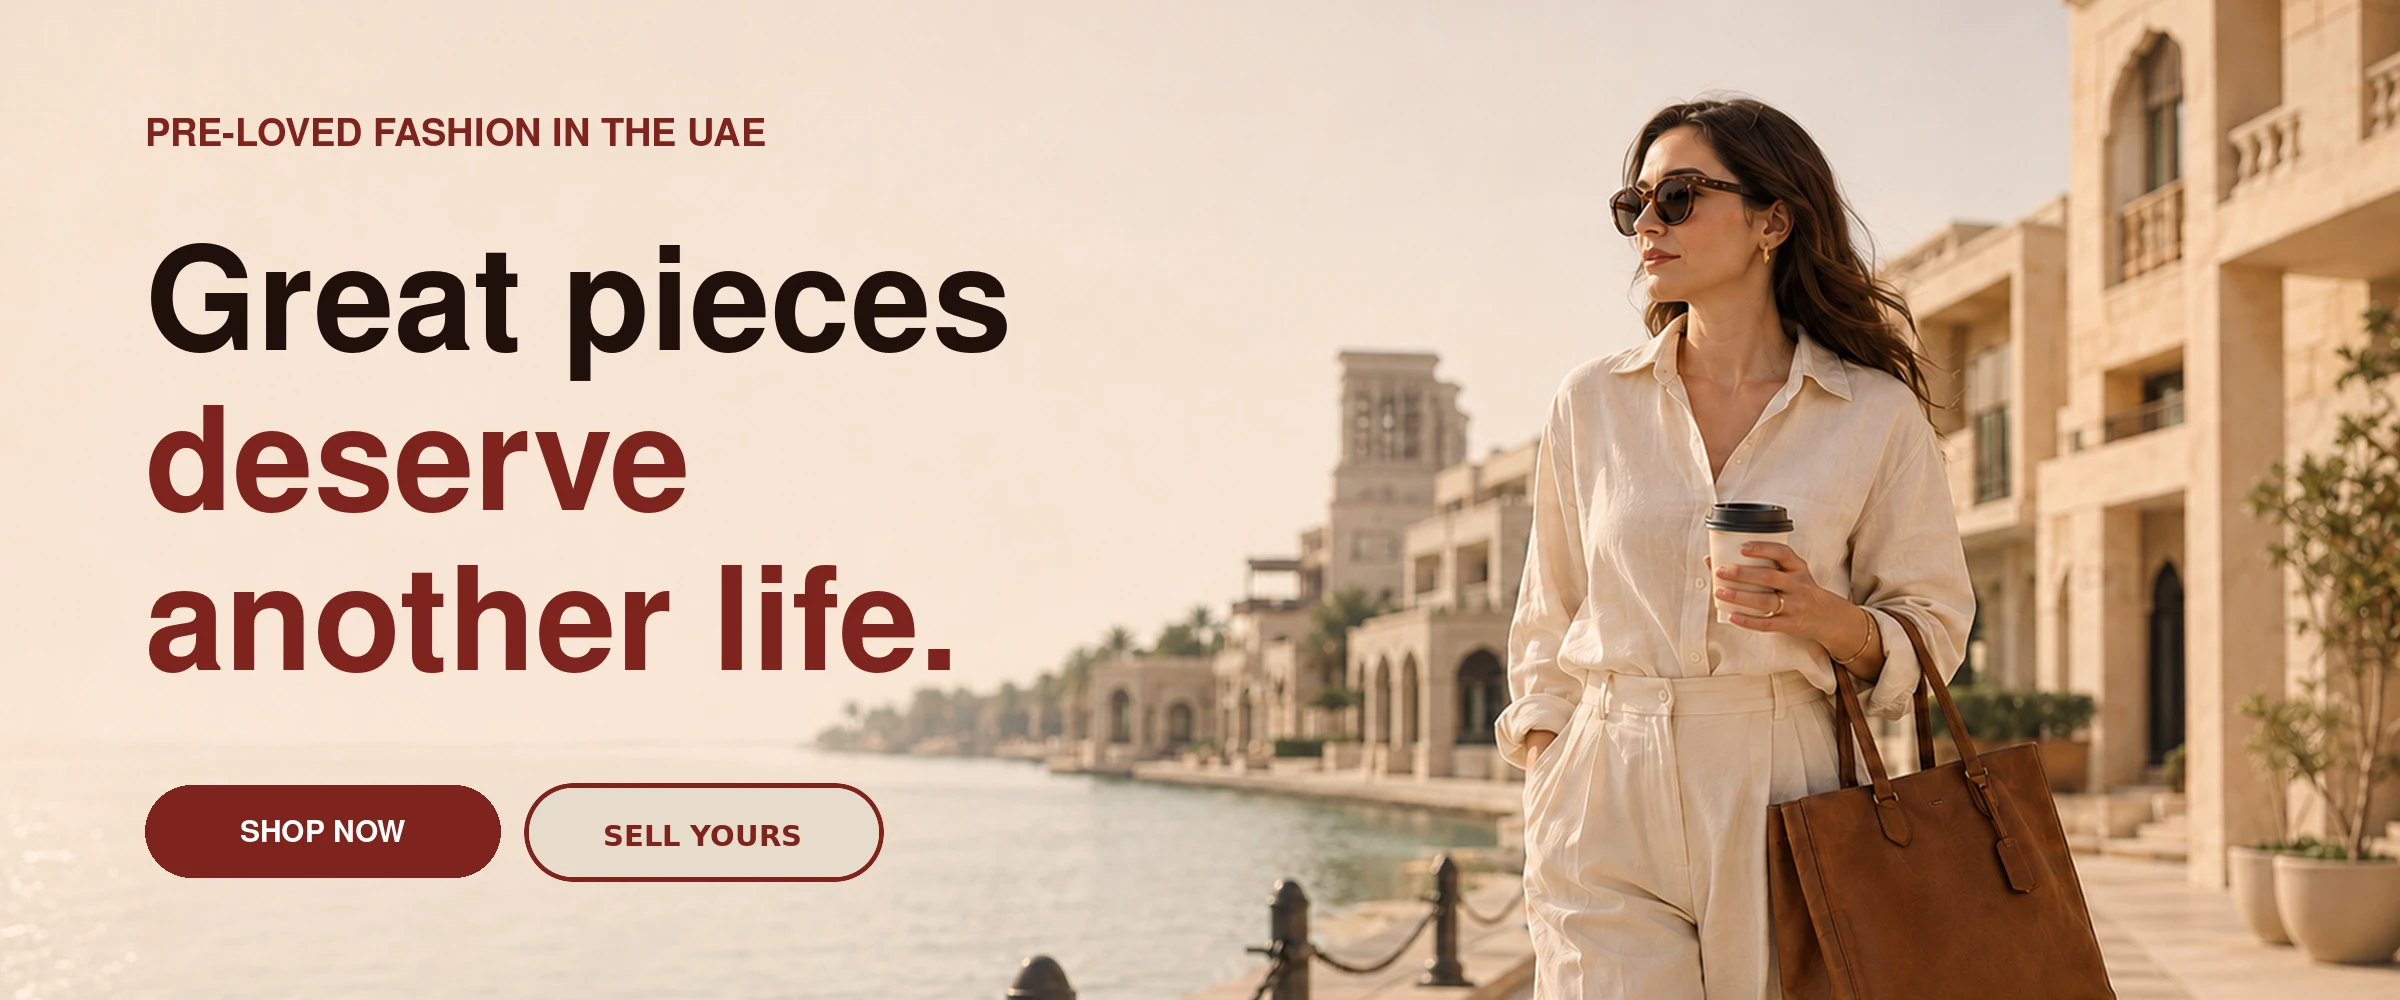
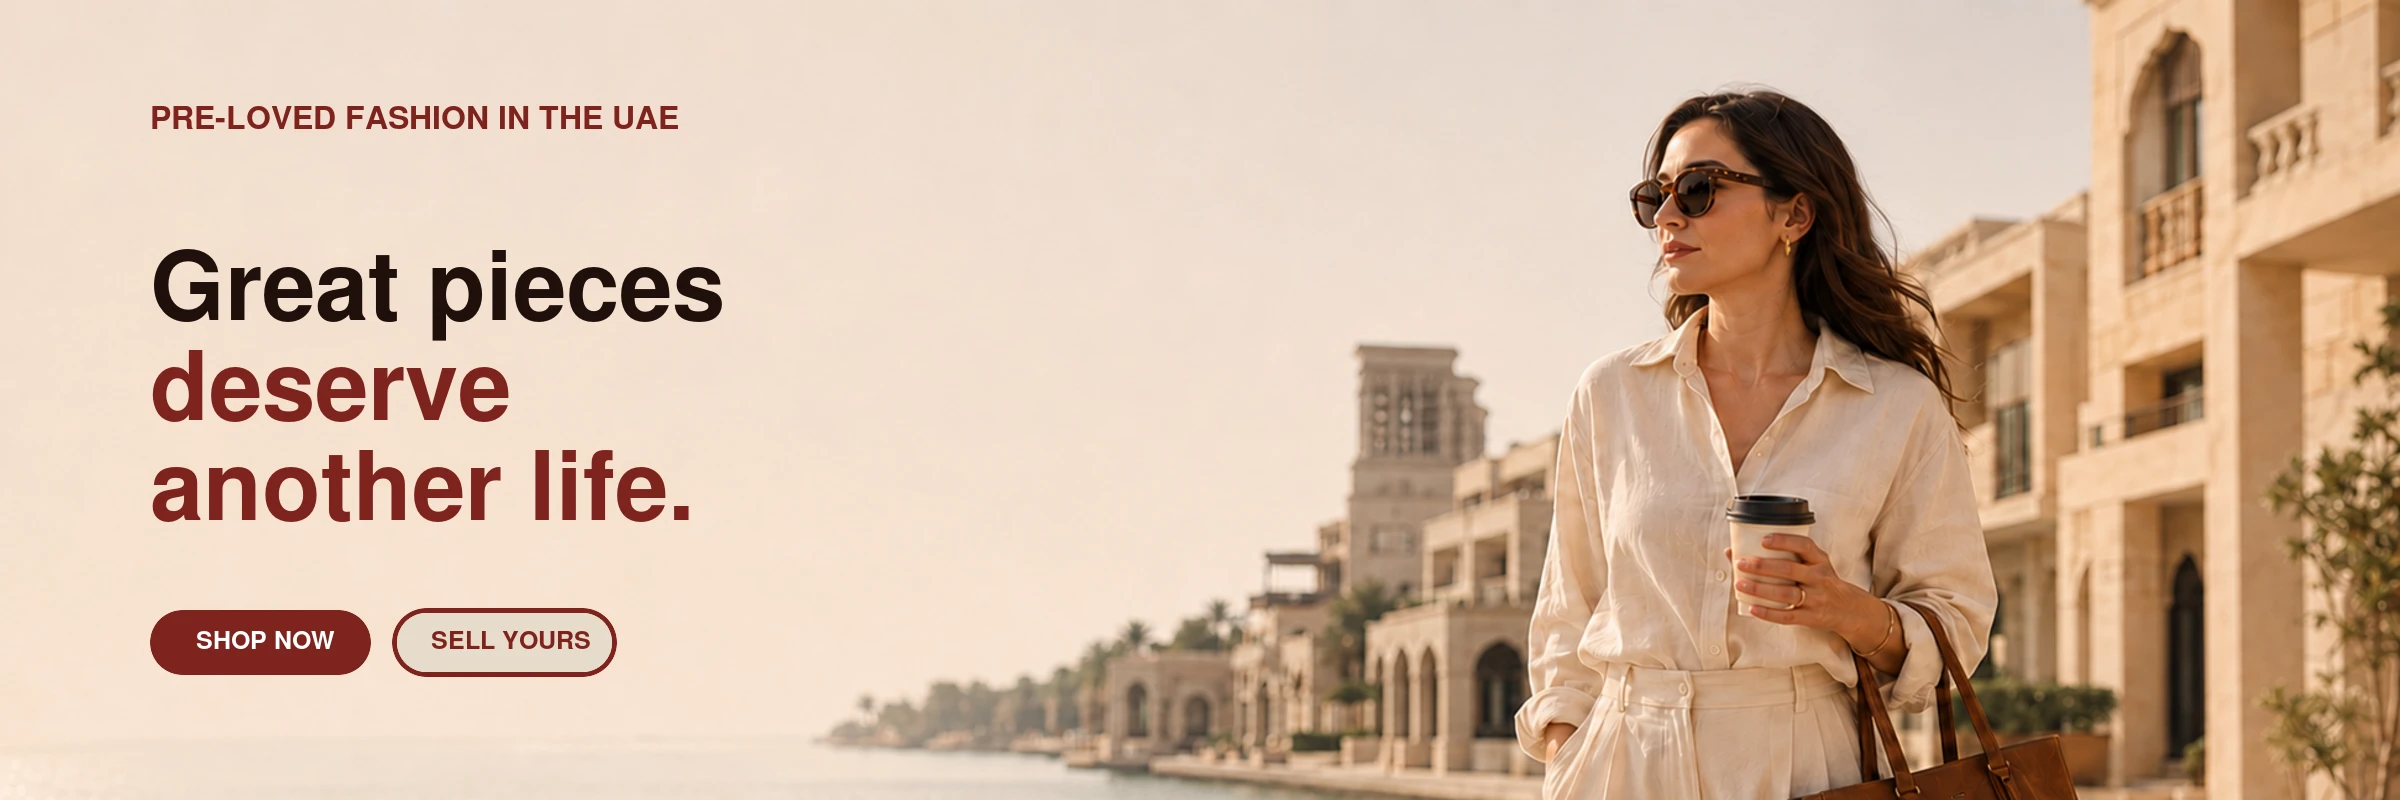
Hero v3 desktop: wider/shorter artwork with smaller baked buttons
Confirmed (via a cache-busted reload, ruling out stale cache) that the
v2 desktop hero's buttons still read as oversized on a very wide
monitor — expected, since baked-image content scales proportionally
with display size, and "full page width" on a wide screen is a lot of
pixels. Explained the tradeoff to the owner; she regenerated the
artwork wider/shorter (2400x800 vs the previous 2400x1000) with the
Shop now/Sell yours buttons drawn noticeably smaller relative to the
canvas, which reduces their displayed size at any given width without
reintroducing a page-width mismatch.

Button hit-target coordinates re-measured against the new file.
Mobile portrait asset is unchanged.

Verified in-browser at 1280px and 2200px, cache-busted: buttons read as
normal-sized relative to the rest of the header UI, both still
clickable and correctly routed.

diff --git a/apps/marketplace/src/components/HeroBanner.tsx b/apps/marketplace/src/components/HeroBanner.tsx
@@ -5,11 +5,11 @@ import { useStack } from "../nav/stack";
 
 const LANDSCAPE_URL = apiClient.resolveAssetUrl("/assets/hero/hero-landscape.webp");
 const PORTRAIT_URL = apiClient.resolveAssetUrl("/assets/hero/hero-portrait.webp");
-// v2 images were generated pre-composed at these exact ratios (2400x1000
-// and 1080x968) — unlike the v1 assets, no independent crop ratio is
-// needed here; the container just matches the file's own dimensions, so
-// resizeMode "cover" never has to trim anything.
-const LANDSCAPE_ASPECT_RATIO = 2400 / 1000;
+// v3 desktop image (2400x800, wider/shorter, smaller baked buttons
+// relative to the canvas) + v2 mobile image, both pre-composed at their
+// own exact ratios — the container just matches each file's dimensions,
+// so resizeMode "cover" never has to trim anything.
+const LANDSCAPE_ASPECT_RATIO = 2400 / 800;
 const PORTRAIT_ASPECT_RATIO = 1080 / 968;
 
 // The approved hero images have their headline and buttons baked in as
@@ -21,8 +21,8 @@ const PORTRAIT_ASPECT_RATIO = 1080 / 968;
 // artwork changes, these must be re-measured (see scripts used in dev:
 // PIL + connected-components on the button fill color).
 const LANDSCAPE_BUTTONS = {
-  shopNow: { left: "6.0%", top: "78.5%", width: "14.8%", height: "9.2%" },
-  sellYours: { left: "21.8%", top: "78.5%", width: "15.0%", height: "9.1%" },
+  shopNow: { left: "6.2%", top: "76.2%", width: "9.2%", height: "8.0%" },
+  sellYours: { left: "16.4%", top: "76.2%", width: "9.3%", height: "7.9%" },
 } as const;
 const PORTRAIT_BUTTONS = {
   shopNow: { left: "6.7%", top: "55.3%", width: "25.0%", height: "7.8%" },
